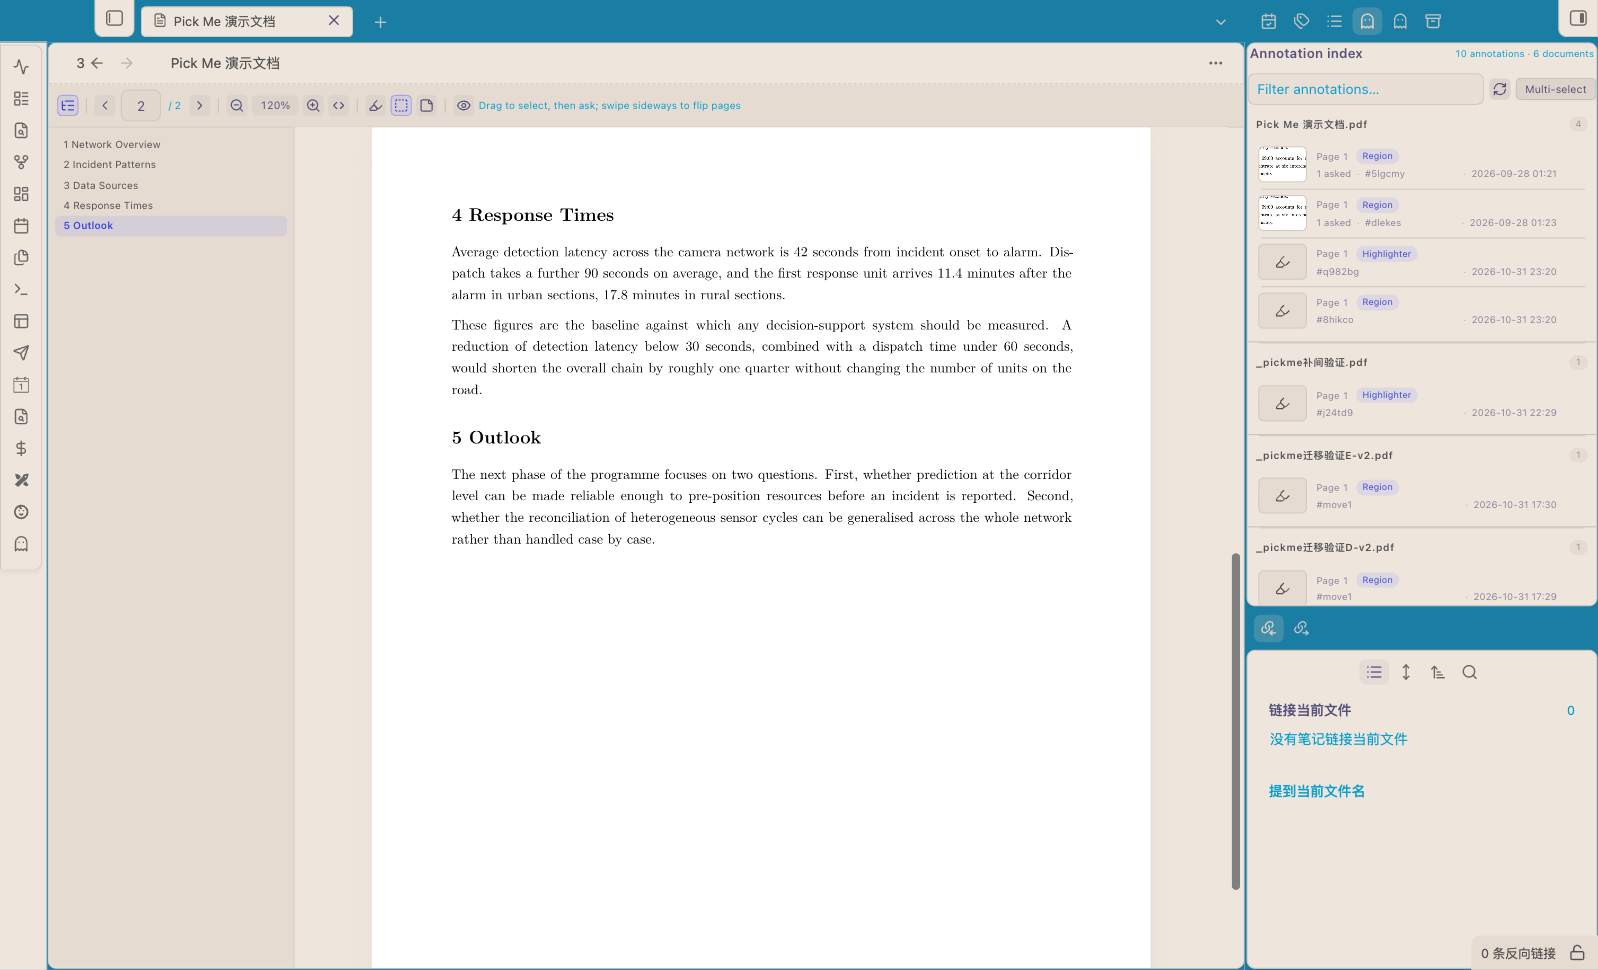
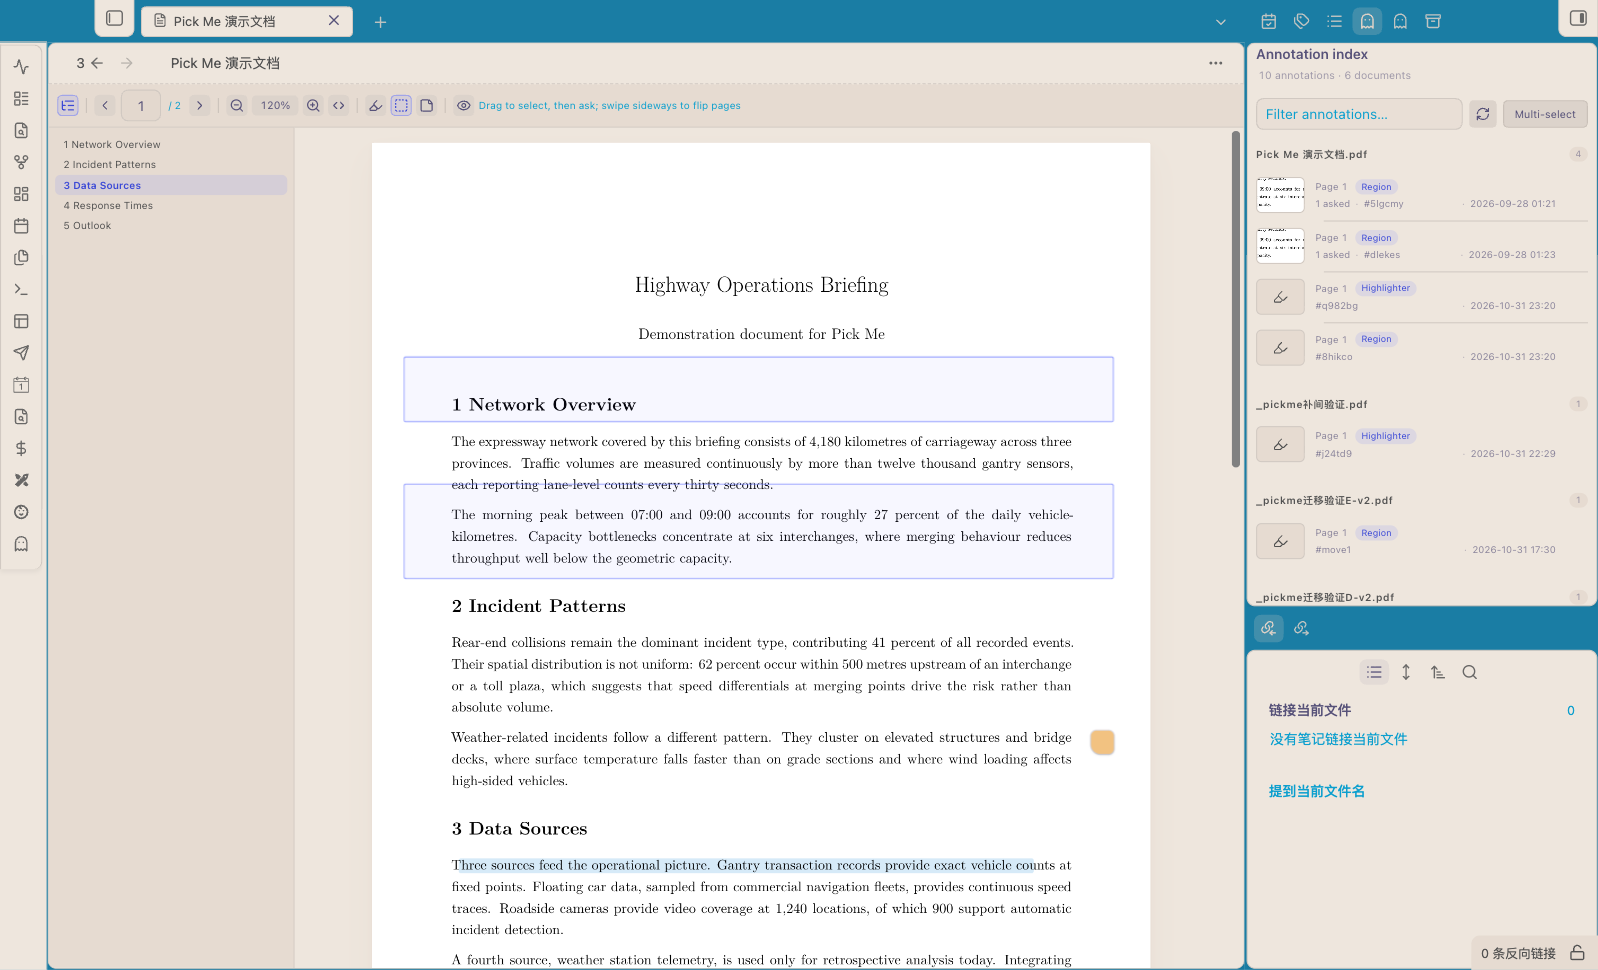
1.1.4: 索引留白重排（标题分行/统一左基线/分组改留白分隔）+ 修误伤的双分隔线

diff --git a/styles.css b/styles.css
@@ -421,7 +421,9 @@ body.theme-dark {
 	margin-top: 2px;
 }
 
-.pickme-card {
+/* 侧边栏的批注行：只作用于侧边栏的 .pickme-entries，别误伤索引里的分组
+   （索引分组也带 pickme-card 类，之前就被这条规则画出了一道多余的分隔线） */
+.pickme-entries .pickme-card {
 	position: relative;
 	border: none;
 	border-left: 2px solid transparent;
@@ -431,7 +433,7 @@ body.theme-dark {
 	transition: var(--pk-t);
 }
 
-.pickme-card + .pickme-card::before {
+.pickme-entries .pickme-card + .pickme-card::before {
 	content: '';
 	position: absolute;
 	left: 11px;
@@ -441,18 +443,18 @@ body.theme-dark {
 	background: var(--pk-line);
 }
 
-.pickme-card:hover {
+.pickme-entries .pickme-card:hover {
 	border-left-color: var(--pk-line2);
 	background: var(--pk-surface2);
 }
 
-.pickme-card.is-active {
+.pickme-entries .pickme-card.is-active {
 	border-left-color: var(--pk-acc);
 	border-radius: 0 var(--pk-r-sm) var(--pk-r-sm) 0;
 	background: var(--pk-acc-soft);
 }
 
-.pickme-card.is-stale {
+.pickme-entries .pickme-card.is-stale {
 	opacity: 0.82;
 }
 
@@ -680,44 +682,50 @@ body.pickme-mark-border .pickme-mark {
 /* ================= 批注索引 ================= */
 /* 三层就够：面板标题 > 文档组（小字、低调）> 批注行 > 元信息（最弱、只做定位） */
 .pickme-index {
-	padding-top: 10px;
+	/* 索引视图把 view-content 的 padding 清零了，留白得自己给：四周都要呼吸 */
+	padding: 18px 14px 34px;
 }
 
+/* 标题与统计分两行：标题是标题，统计是它的注脚，别再挤在一行抢地盘 */
 .pickme-index .pickme-header {
-	align-items: center;
-	padding: 0 2px 9px;
+	flex-direction: column;
+	align-items: flex-start;
+	gap: 3px;
+	padding: 0 8px 14px;
 	border-bottom: none;
 }
 
 .pickme-index .pickme-file {
-	font-size: 12.5px;
+	font-size: 13px;
 	font-weight: 600;
-	letter-spacing: 0.2px;
+	letter-spacing: -0.1px;
 }
 
 .pickme-index .pickme-count {
-	font-size: var(--pk-fs-xs);
-	color: var(--pk-ink5);
+	padding-left: 2px;
+	font-size: 10px;
+	color: color-mix(in srgb, var(--pk-ink) 52%, transparent);
 	font-variant-numeric: tabular-nums;
 }
 
 .pickme-index-tools {
-	gap: 5px;
-	margin: 0 0 11px;
+	gap: 6px;
+	margin: 0 0 16px;
+	padding: 0 8px;
 	flex-wrap: nowrap;
 }
 
 .pickme-index-filter {
 	flex: 1 1 auto;
 	min-width: 0;
-	height: 24px;
-	padding: 0 8px;
+	height: 26px;
+	padding: 0 10px;
 	font-family: var(--font-interface);
-	font-size: var(--pk-fs-sm);
+	font-size: 10.5px;
 	background: var(--pk-surface2);
 	background-image: none;
 	border: 1px solid var(--pk-line);
-	border-radius: var(--pk-r-sm);
+	border-radius: 7px;
 	box-shadow: none;
 	color: var(--pk-ink);
 	transition: var(--pk-t);
@@ -735,6 +743,14 @@ body.pickme-mark-border .pickme-mark {
 
 .pickme-index-tools .pickme-icon-button {
 	flex: none;
+	width: 26px;
+	height: 26px;
+}
+
+.pickme-index-tools .pickme-index-selmode-toggle {
+	height: 26px;
+	padding: 0 10px;
+	font-size: 10px;
 }
 
 /* 工具条上的「多选」开关：开着就实心强调色，和分段控件的选中态是同一套语言 */
@@ -783,9 +799,9 @@ body.pickme-mark-border .pickme-mark {
 
 /* 组与组之间：一道通栏细线 + 一段呼吸，比行间那层更重 */
 .pickme-index-group + .pickme-index-group {
-	margin-top: 6px;
-	padding-top: 12px;
-	border-top: 1px solid var(--pk-line2);
+	margin-top: 22px;
+	padding-top: 0;
+	border-top: none;
 }
 
 .pickme-index-source {
@@ -793,7 +809,7 @@ body.pickme-mark-border .pickme-mark {
 	align-items: center;
 	gap: 7px;
 	margin: 0;
-	padding: 0 8px 8px;
+	padding: 0 8px 7px;
 	border-bottom: none;
 }
 
@@ -832,20 +848,21 @@ body.pickme-mark-border .pickme-mark {
 	position: relative;
 	display: flex;
 	align-items: center;
-	gap: 9px;
-	padding: 6px 8px;
-	margin: 0;
-	border-left: 2px solid transparent;
+	gap: 10px;
+	padding: 7px 16px;
+	margin: 0 -8px;
+	border-left: none;
 	border-radius: 0;
 	cursor: pointer;
 	transition: var(--pk-t);
+	border-radius: var(--pk-r-sm);
 }
 
 .pickme-index-entry + .pickme-index-entry::before {
 	content: '';
 	position: absolute;
-	left: 11px;
-	right: 11px;
+	left: 80px; /* 从缩略图之后起笔，正文那一列才干净 */
+	right: 16px;
 	top: 0;
 	height: 1px;
 	background: var(--pk-line);
@@ -853,20 +870,18 @@ body.pickme-mark-border .pickme-mark {
 
 .pickme-index-entry:hover {
 	background: var(--pk-surface2);
-	border-left-color: var(--pk-line2);
+	box-shadow: inset 2px 0 0 var(--pk-line2);
 }
 
 .pickme-index-entry.is-picked,
 .pickme-index-entry.is-active {
 	background: var(--pk-acc-soft);
-	border-left-color: var(--pk-acc);
-	border-radius: 0 var(--pk-r-sm) var(--pk-r-sm) 0;
+	box-shadow: inset 2px 0 0 var(--pk-acc);
 }
 
 /* 键盘游标所在的那一行：只加一圈内描边，不抢选中态的强调色底子 */
 .pickme-index-entry.is-cursor {
-	box-shadow: inset 0 0 0 1px var(--pk-acc-line);
-	border-radius: var(--pk-r-sm);
+	box-shadow: inset 0 0 0 1px var(--pk-acc-line), inset 2px 0 0 var(--pk-acc-line);
 }
 
 /* 单条删除：平时藏着，hover / 聚焦 / 选中 / 游标到位时现形；

diff --git a/CHANGELOG.md b/CHANGELOG.md
@@ -2,6 +2,13 @@
 
 Release notes shown on GitHub are taken from the section of this file that matches the tag.
 
+## 1.1.4
+
+- 批注索引留白重排：四周留出内边距，标题与统计分成两行，搜索框变矮、不再贴边
+- 全内容统一到一条左基线（标题/统计/搜索框/文档名/缩略图同一竖线），行的高亮底色向两侧各溢出 8px
+- 文档分组之间改用留白分隔，去掉分隔线；修掉索引分组被侧边栏卡片规则误画的一道多余横线
+- README 索引与多选截图重拍
+
 ## 1.1.3
 
 - 批注索引：页码与类型拆成两个元素 —— 页码淡灰做定位，类型带标签底色，扫读时先看类型
